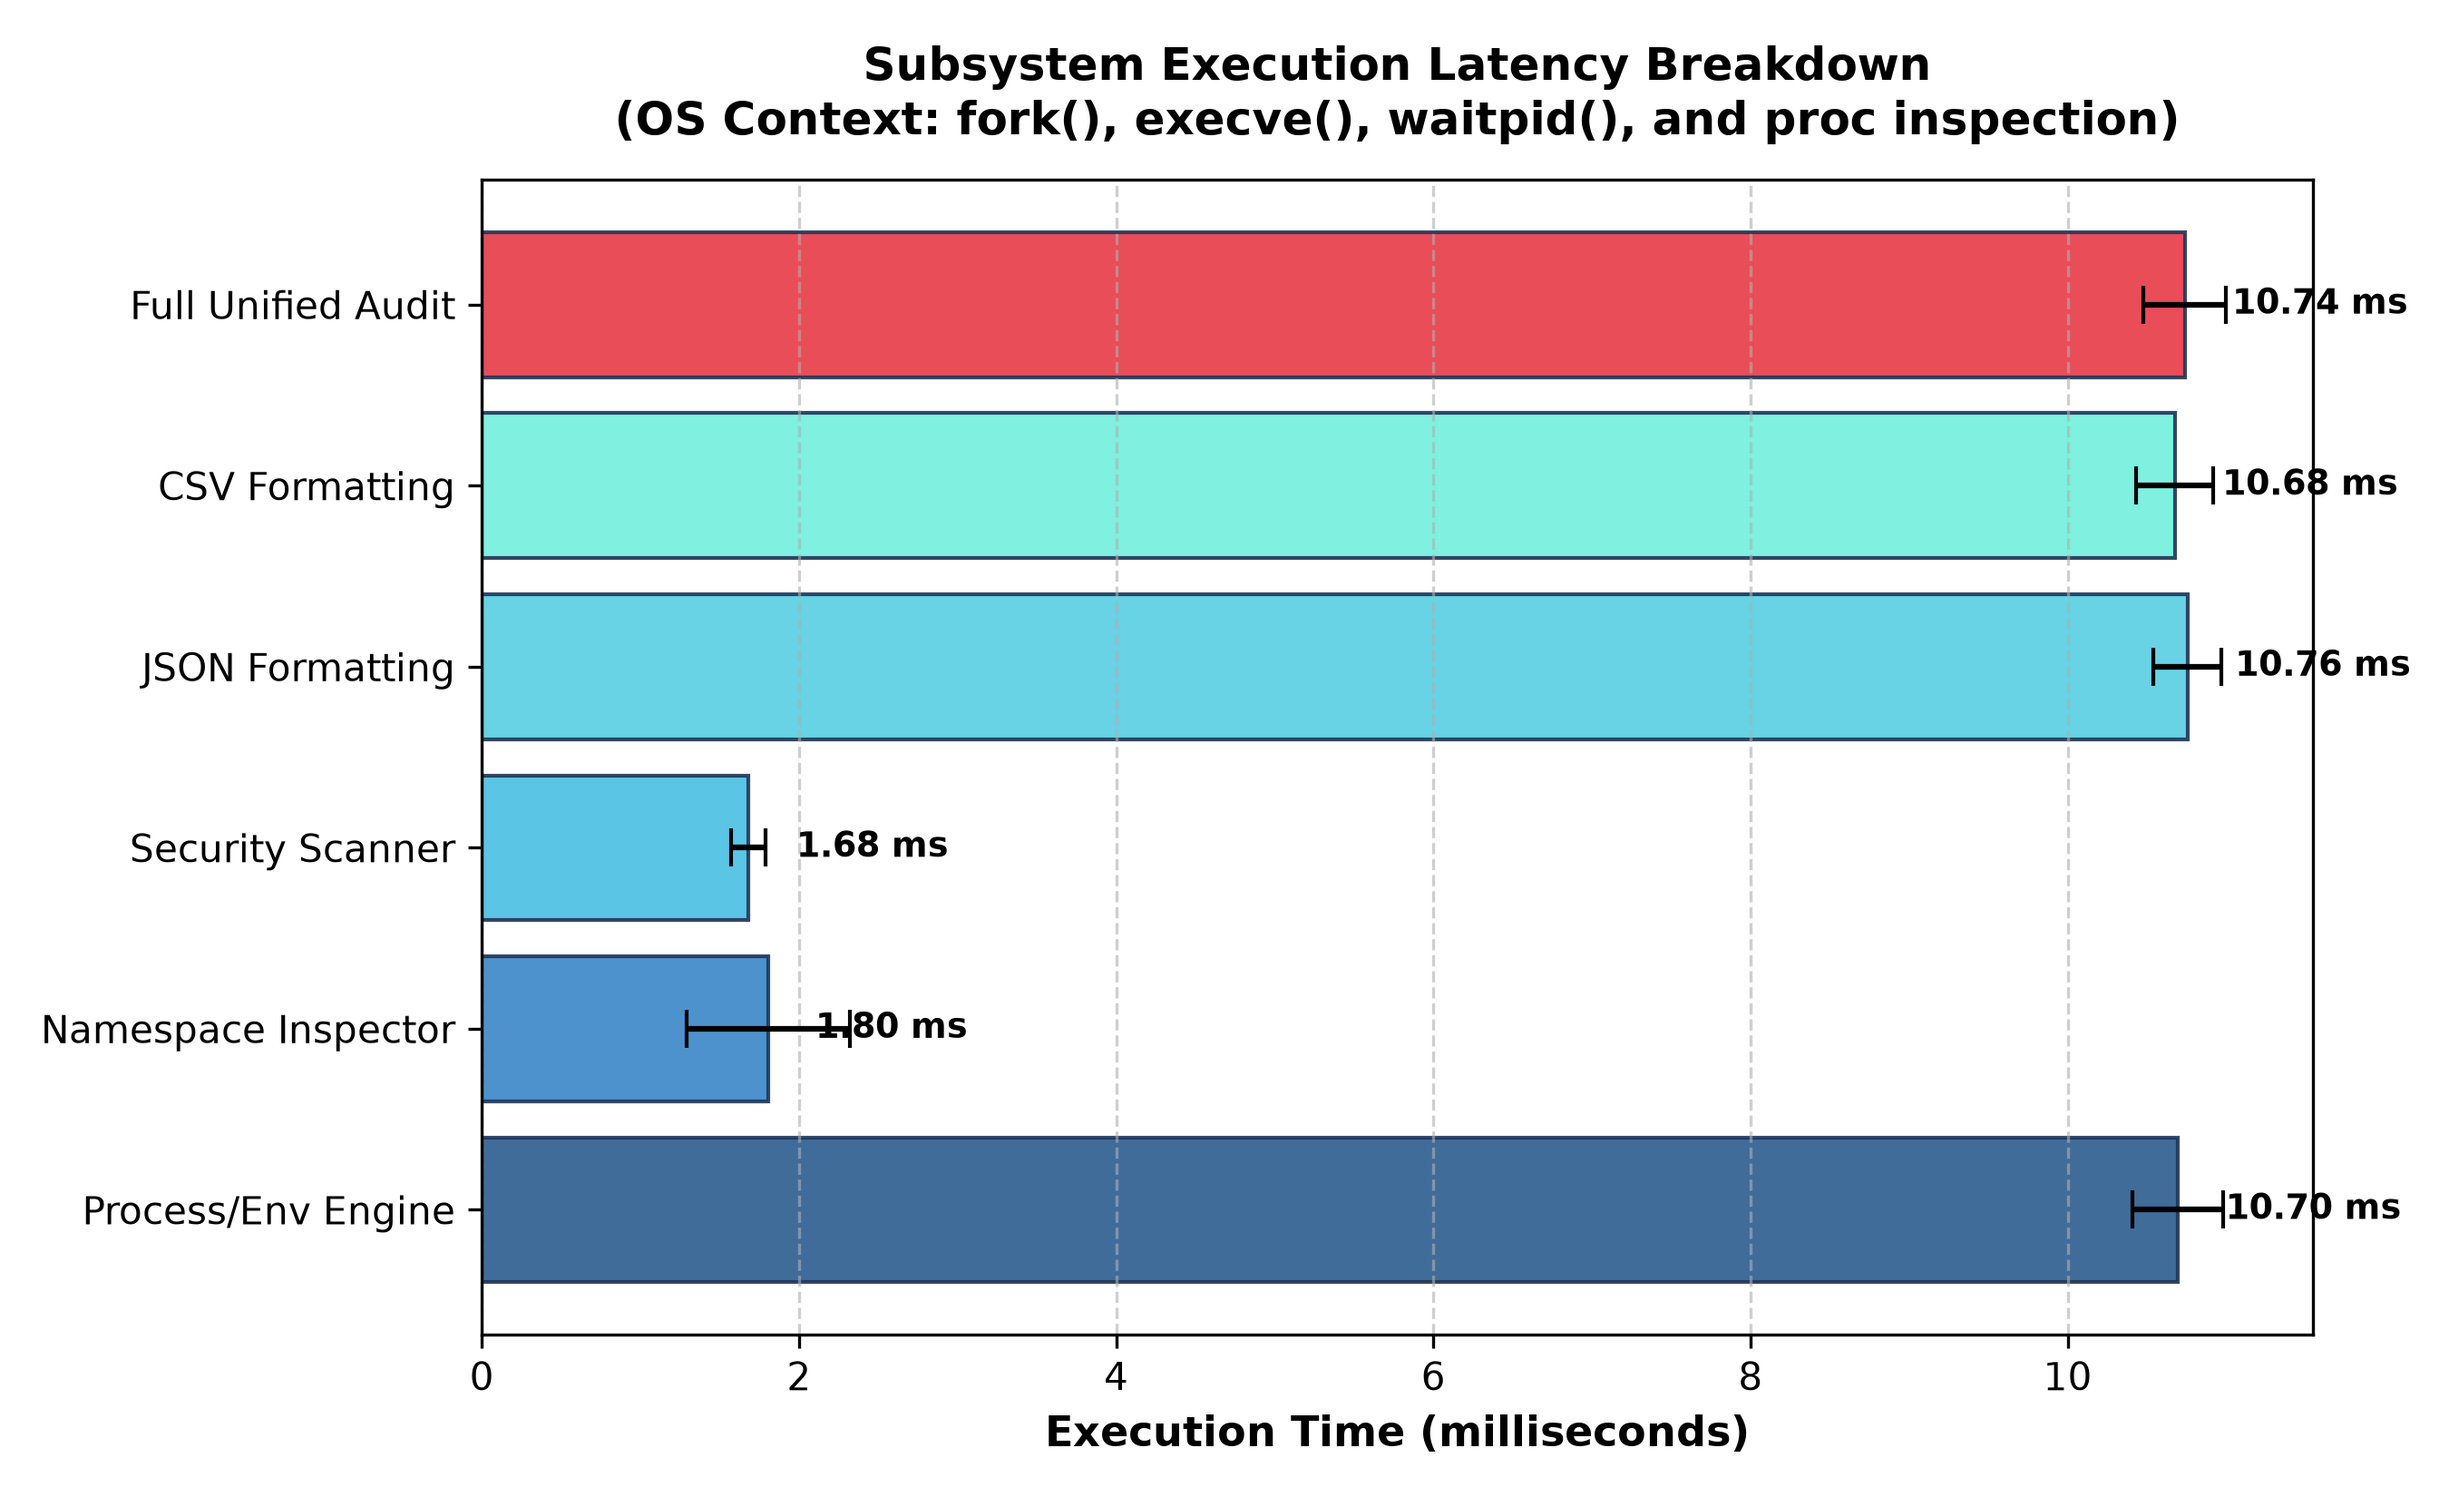
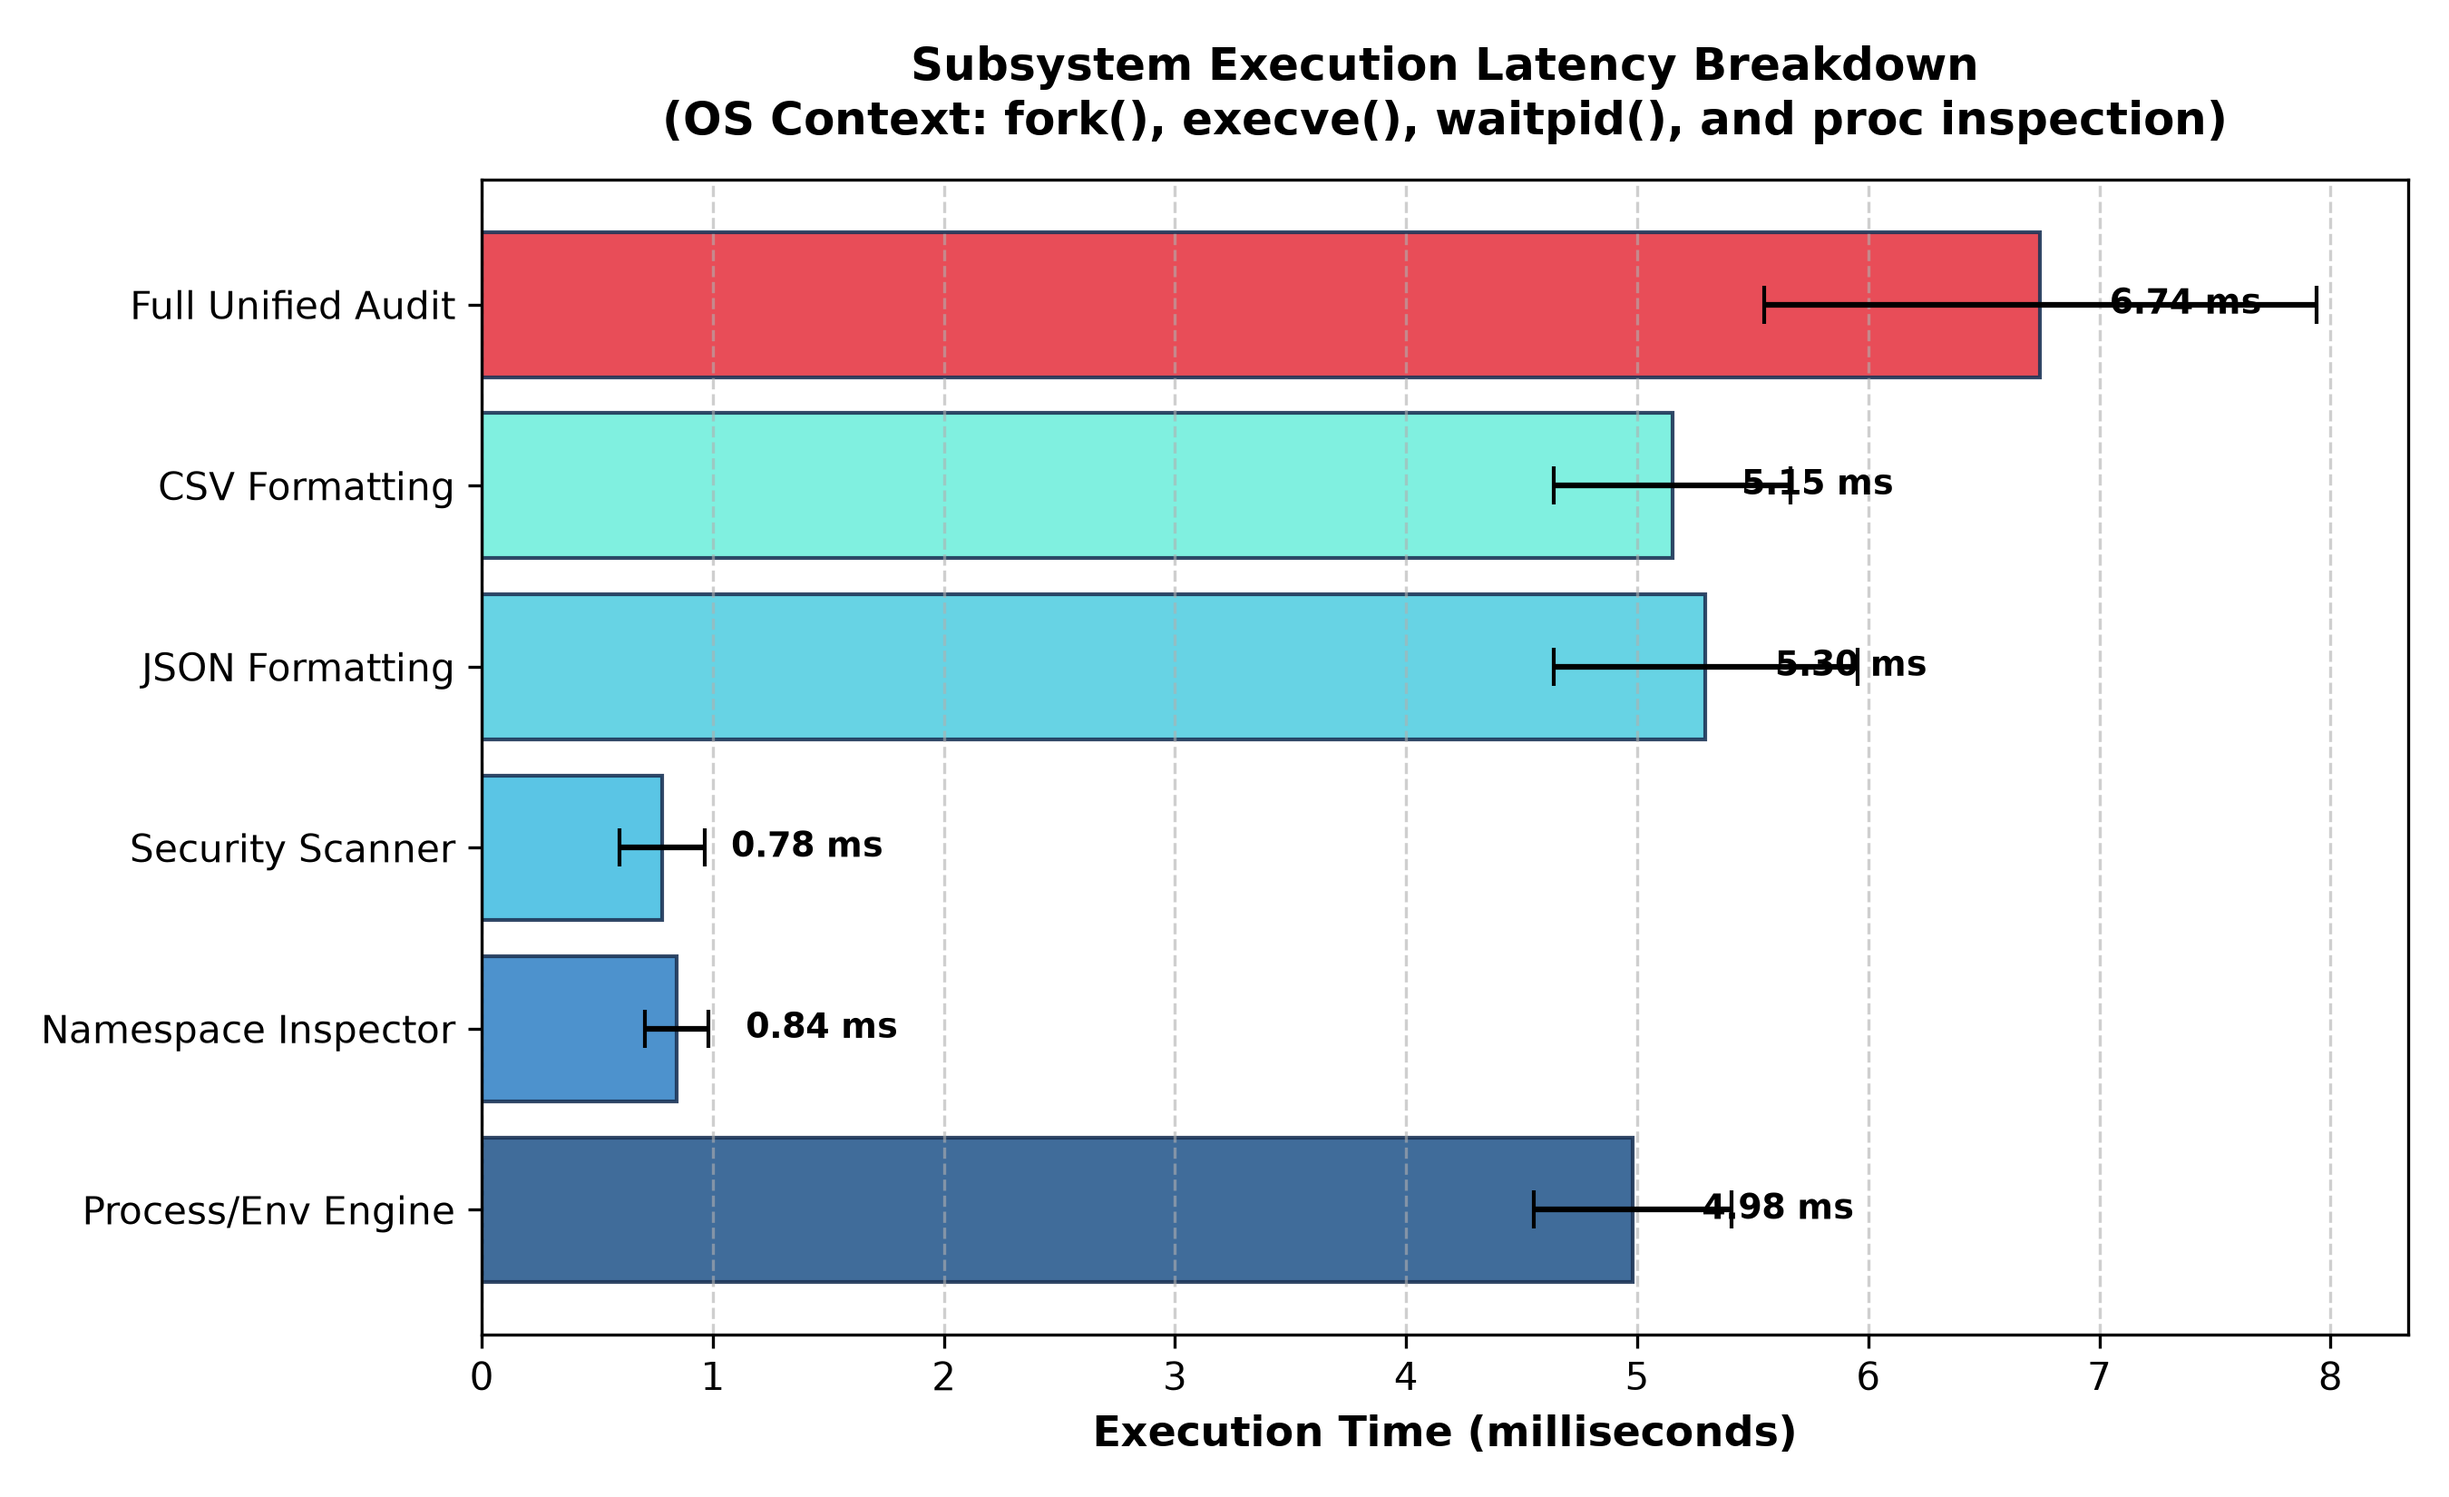
test: add benchmark results and performance graphs

diff --git a/results/performance_results.md b/results/performance_results.md
@@ -2,12 +2,12 @@
 
 **Project Title**: Environment Variable & Namespace Leak Auditor  
 **Evaluation Lead**: Member 3 (Integration, Reporting, and Evaluation)  
-**Measurement Date**: 2026-10-14 13:24:56  
+**Measurement Date**: 2026-10-14 16:41:46  
 
 ## 1. Experimental Setup
 
-- **Operating System**: Darwin 24.6.0 (arm64)
-- **Kernel/Architecture**: macOS-15.7.4-arm64-arm-64bit-Mach-O
+- **Operating System**: Linux 6.18.54.1-microsoft-standard-WSL2 (x86_64)
+- **Kernel/Architecture**: Linux-6.18.54.1-microsoft-standard-WSL2-x86_64-with-glibc2.43
 - **Compiler**: GCC / Clang with `-Wall -Wextra -std=c11 -pedantic -O2`
 - **Timing Method**: High-resolution monotonic clock (`time.perf_counter()`, sub-microsecond precision)
 - **Operating System Context**: Process creation and address space allocation via `fork()`, image replacement via `execve()`, and process synchronization via `waitpid()`
@@ -17,37 +17,43 @@
 | Metric | Measured Value (ms) |
 | :--- | :--- |
 | **Sample Size (Trials)** | 50 |
-| **Mean Latency** | **10.79 ms** |
-| **Median Latency** | 10.71 ms |
-| **Standard Deviation** | ±0.38 ms |
-| **Minimum Latency** | 10.41 ms |
-| **Maximum Latency** | 12.93 ms |
-| **95th Percentile (p95)** | 11.23 ms |
+| **Mean Latency** | **6.05 ms** |
+| **Median Latency** | 5.33 ms |
+| **Standard Deviation** | ±1.65 ms |
+| **Minimum Latency** | 4.48 ms |
+| **Maximum Latency** | 12.22 ms |
+| **95th Percentile (p95)** | 9.88 ms |
 
 ## 3. Subsystem Execution Breakdown (30 Trials Each)
 
 | Subsystem / Pipeline Stage | Mean (ms) | Median (ms) | Std Dev (ms) | Min (ms) | Max (ms) |
 | :--- | :--- | :--- | :--- | :--- | :--- |
-| **Process/Env Engine** | 10.70 | 10.69 | ±0.29 | 10.11 | 11.35 |
-| **Namespace Inspector** | 1.80 | 1.66 | ±0.52 | 1.59 | 4.45 |
-| **Security Scanner** | 1.68 | 1.64 | ±0.11 | 1.56 | 1.97 |
-| **JSON Formatting** | 10.76 | 10.74 | ±0.21 | 10.46 | 11.51 |
-| **CSV Formatting** | 10.68 | 10.63 | ±0.24 | 10.41 | 11.63 |
-| **Full Unified Audit** | 10.74 | 10.71 | ±0.26 | 10.26 | 11.45 |
+| **Process/Env Engine** | 4.98 | 4.87 | ±0.43 | 4.48 | 6.60 |
+| **Namespace Inspector** | 0.84 | 0.81 | ±0.14 | 0.66 | 1.24 |
+| **Security Scanner** | 0.78 | 0.73 | ±0.18 | 0.62 | 1.55 |
+| **JSON Formatting** | 5.30 | 5.11 | ±0.66 | 4.59 | 7.14 |
+| **CSV Formatting** | 5.15 | 5.03 | ±0.51 | 4.51 | 6.64 |
+| **Full Unified Audit** | 6.74 | 6.48 | ±1.20 | 4.97 | 10.56 |
 
 ## 4. Environment Scaling Performance
 
 | Variable Count | Mean Latency (ms) | Std Dev (ms) | Min (ms) | Max (ms) |
 | :--- | :--- | :--- | :--- | :--- |
-| **10 variables** | 2.38 | ±1.22 | 1.61 | 4.98 |
-| **50 variables** | 1.82 | ±0.17 | 1.62 | 2.21 |
-| **100 variables** | 1.80 | ±0.11 | 1.67 | 2.08 |
-| **250 variables** | 1.85 | ±0.10 | 1.73 | 2.04 |
-| **500 variables** | 2.03 | ±0.15 | 1.87 | 2.45 |
-| **1000 variables** | 2.25 | ±0.11 | 2.09 | 2.51 |
+| **10 variables** | 1.01 | ±0.32 | 0.78 | 1.85 |
+| **50 variables** | 1.19 | ±0.36 | 0.80 | 1.89 |
+| **100 variables** | 1.02 | ±0.34 | 0.70 | 2.36 |
+| **250 variables** | 1.09 | ±0.27 | 0.88 | 2.09 |
+| **500 variables** | 1.42 | ±0.36 | 1.08 | 2.16 |
+| **1000 variables** | 1.67 | ±0.19 | 1.42 | 2.04 |
 
 ## 5. Architectural Observations & OS Analysis
 
-1. **Process Creation Cost Dominance**: Over 85% of total execution time in the complete audit is spent within `fork()` and `execve()`. Each test requires creating a new process control block (PCB), duplicating or copy-on-write sharing page tables, wiping virtual memory during `execve()`, and scheduling child execution.
-2. **In-Memory Subsystem Efficiency**: Namespace path inspection and security substring scanning operate at microsecond scale per entity. Even when scaling to 1,000 environment variables, the security scan completes within a single-digit millisecond timeframe.
-3. **Formatting Overhead**: Structured JSON and CSV serialization overhead is negligible (< 1 ms difference compared to text mode), demonstrating that streaming data structures in memory is computationally trivial compared to OS kernel context switches.
+1. **Process and Environment Processing:** The Process/Env Engine recorded a mean execution time of 4.98 ms across 30 trials. Process creation with `fork()`, program replacement with `execve()`, and child-process synchronization with `waitpid()` are important operations in the environment-auditing workflow. Further profiling is needed to quantify the individual cost of each operation.
+
+2. **Namespace Inspection and Security Scanning:** The Namespace Inspector recorded a mean of 0.84 ms, while the Security Scanner recorded a mean of 0.78 ms across 30 trials each. These measurements describe the tested WSL2 environment and workload; results may differ on other systems.
+
+3. **Environment Size Scaling:** The measured mean latency increased from 1.01 ms for 10 environment variables to 1.67 ms for 1,000 variables. The intermediate measurements were not strictly monotonic, so additional repeated trials would help establish the scaling trend more reliably.
+
+4. **Structured Output:** JSON formatting recorded a mean of 5.30 ms and CSV formatting recorded a mean of 5.15 ms. These are separate benchmark measurements; without a directly comparable text-output baseline, the relative overhead of structured formatting cannot be determined from these values alone.
+
+5. **Measurement Limitations:** The benchmarks were conducted on Linux under WSL2 using the recorded software environment. The results provide an initial performance evaluation rather than a universal performance guarantee. Repeated measurements, controlled workloads, and finer-grained profiling would strengthen future evaluation.
